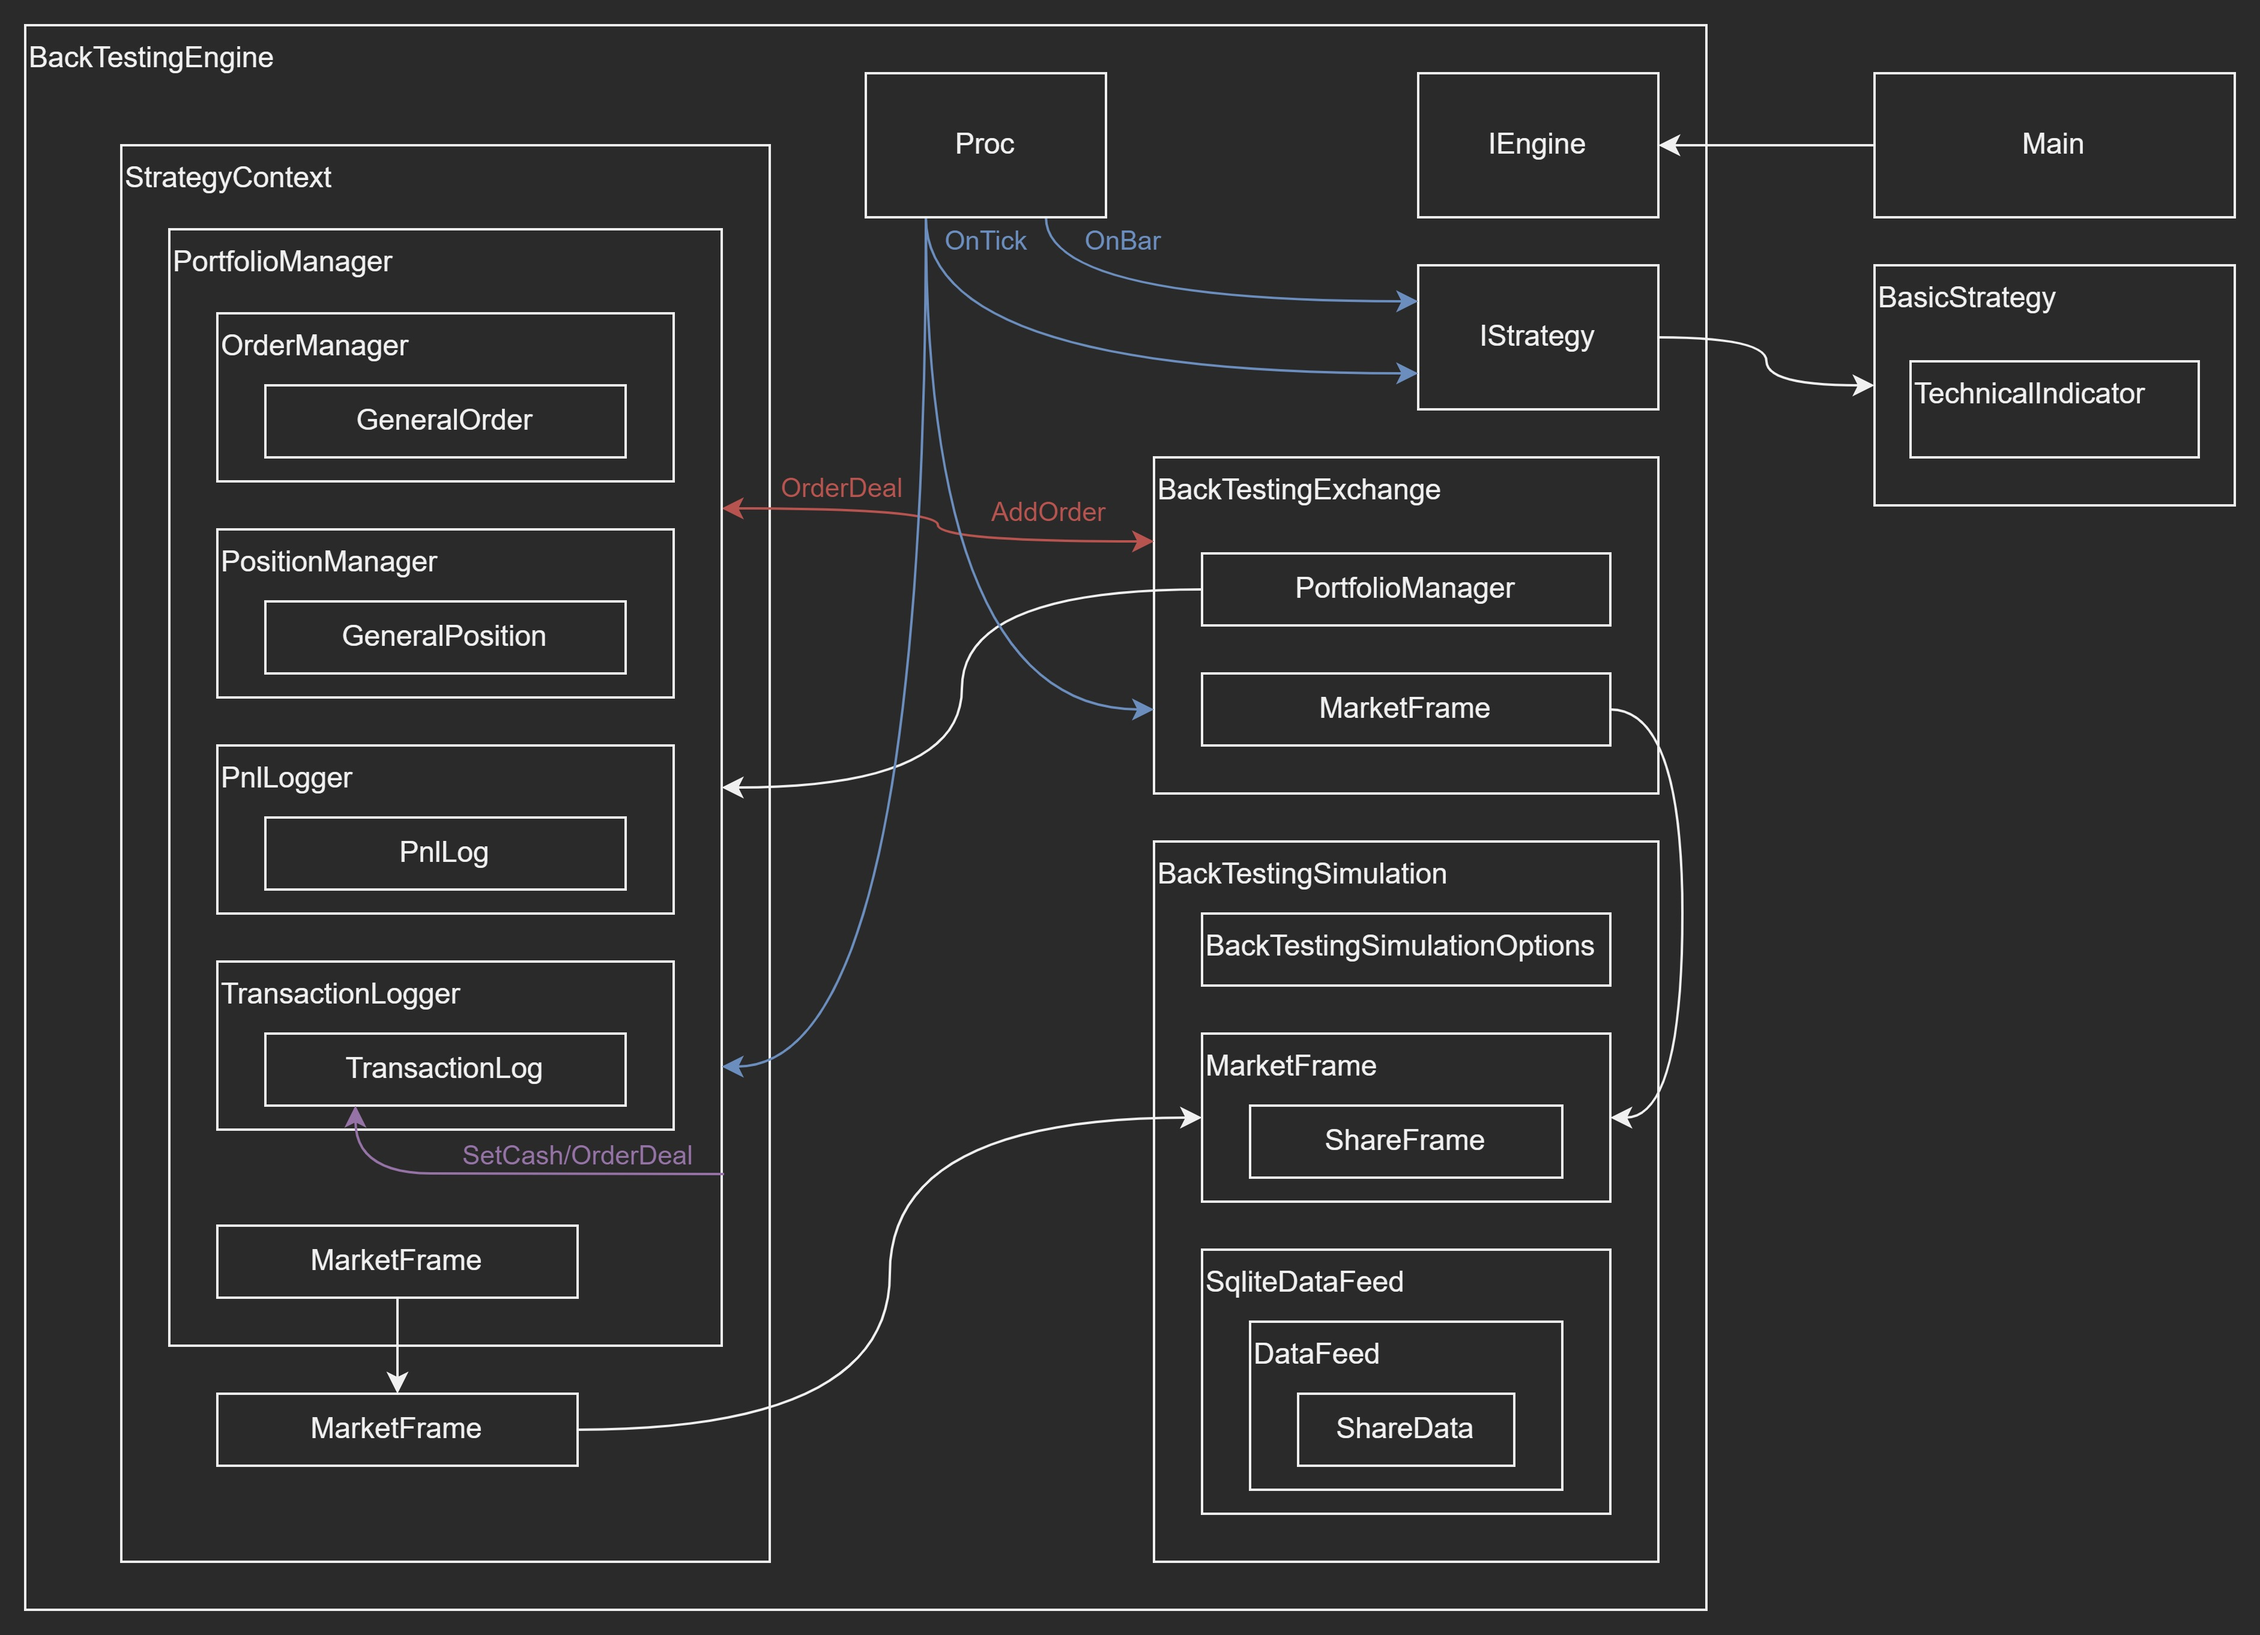
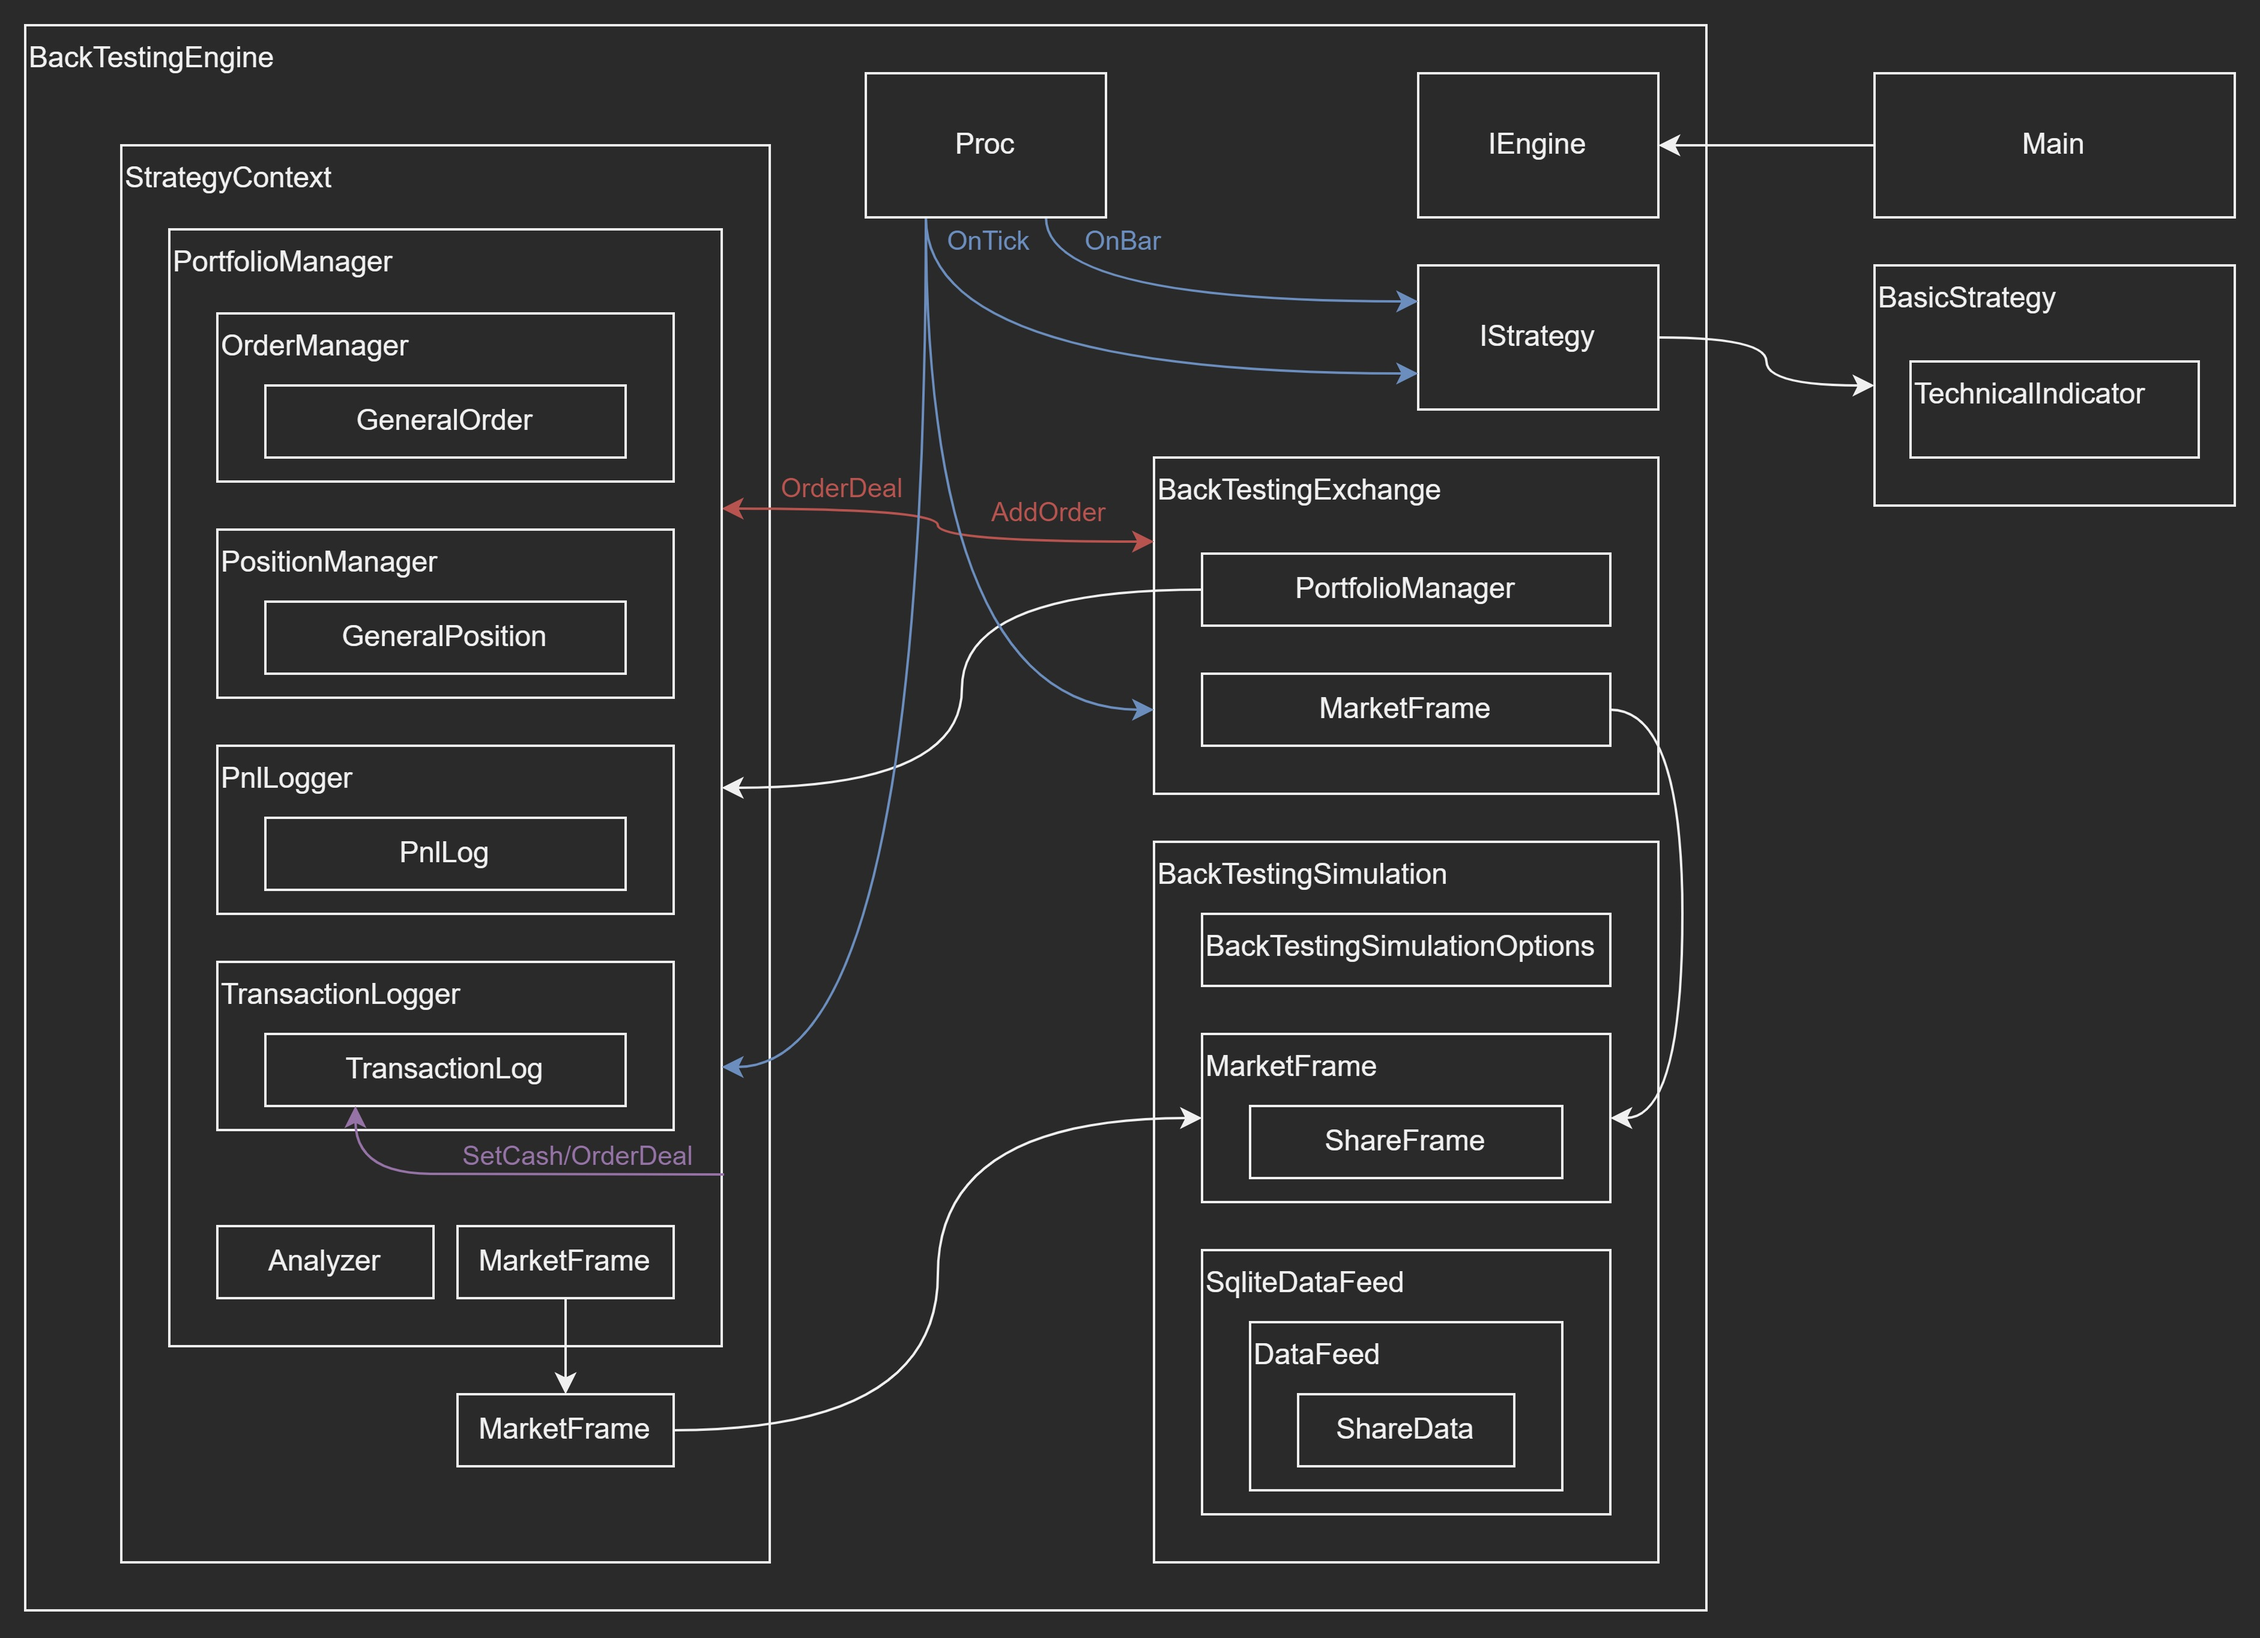
回测框架结构框图更新

diff --git a/CarrotBacktesting.Net/Strategy/BasicStrategy.cs b/CarrotBacktesting.Net/Strategy/BasicStrategy.cs
@@ -40,7 +40,7 @@ namespace CarrotBacktesting.Net.Strategy
             Console.WriteLine(strategyContext.PnlLogger.ToString());
 
             Console.WriteLine("Analyzer:");
-            Console.WriteLine(ClassFormatter.Formatter(strategyContext.PnlLogger.Analyze()));
+            Console.WriteLine(ClassFormatter.Formatter(strategyContext.Analyzer.Analyze()));
 
             Console.WriteLine("MonthlyReturn:");
             Console.WriteLine(ClassFormatter.Formatter(strategyContext.Analyzer.GetReturn(DateSpan.Month)));
